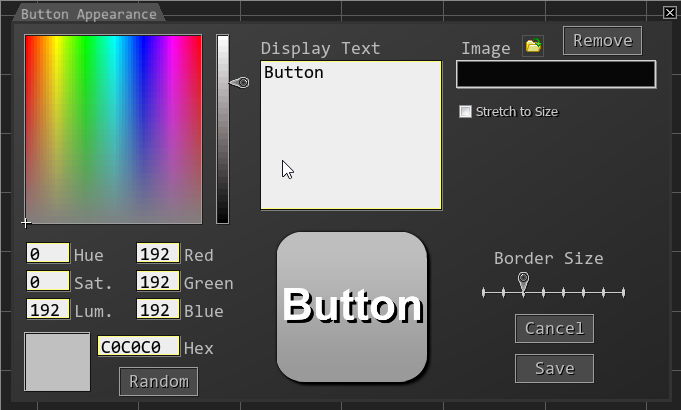
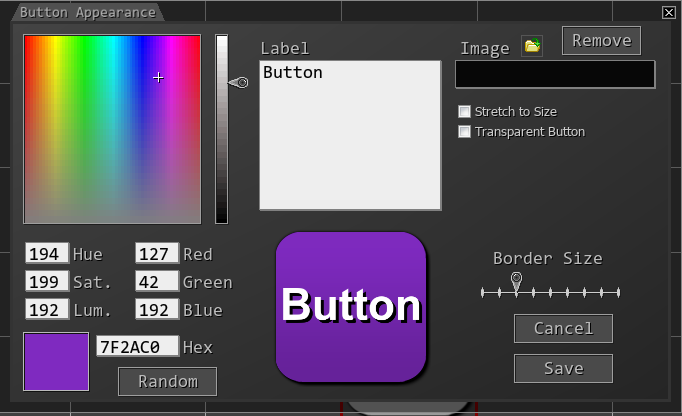
feat: 2024.1.0 updates

diff --git a/doc_posts/_components/core.md b/doc_posts/_components/core.md
@@ -219,7 +219,7 @@ There are several keyboard shortcuts you can use:
 
 #### Edit Appearance
 You can right click on a button or press `SHIFT + double click` to edit its appearance.
-Edit your button text, color, image and border size.\
+Edit your button text, color, image, transparency and border size.\
 All button images will be automatically resized and copied to `SAMMI/image` folder.\
 
 {% include image.html w="50" src="appearance.png" alt="Button Appearance" %}
@@ -248,7 +248,6 @@ You can right on a button or press `CTRL + double click` to edit settings.
 - **Local Variable Persist**
    - checked - button variables will be accessible even after the button has finished. If Allow Button Overlap is enabled, all button executions will share the same variables.   
    - unchecked - button variables will be accessible only when the button is running and only inside their own button. Other buttons cannot access them even if the button is currently running. If Allow Button Overlap is enabled, unique variables will be created for each button execution and will never be shared.
-- **Switch Deck** - whether you want the button to also switch your deck when activated
 - **Press type** 
    - Normal Press - single button press
    - Drag Press - the button will trigger if dragged over. You can add either a single or multiple drag press (activates if it's dragged over again). Useful for creating your own volume buttons! 

diff --git a/doc_posts/_faq-commands/switch_deck.md b/doc_posts/_faq-commands/switch_deck.md
@@ -4,9 +4,7 @@ title: Switch decks with a button
 num: 3.5
 ---
 
-Create a new button. Right click on the button - **Edit Settings**. You can then set up the button to switch your decks when pressed. 
-
-{% include image.html w="75" src="switch-deck.png" alt="Switch decks with a button" %}
+Create a new button. Add a new command [Deck App: Switch Deck]({{ "/commands/deck-app#deckappswitchdeck" | relative_url }}) to the button, and select the deck you want to switch to from the dropdown list when the button is pressed.
 
 
 
